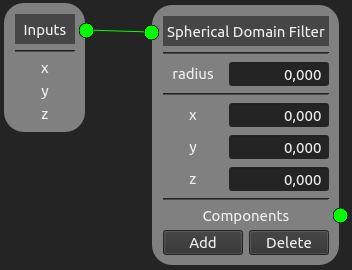
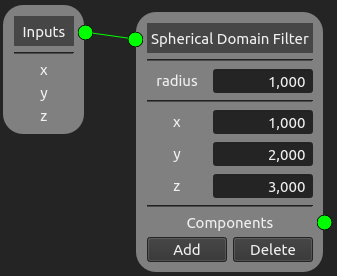
filters documentation done

diff --git a/docs/source/filters.rst b/docs/source/filters.rst
@@ -9,7 +9,7 @@ Note that easi-gui does not check for typos or wrong inputs.
 Any Node
 --------
 
-This node implements `Any <https://easyinit.readthedocs.io/en/latest/filters.html#any>`_ of easi.
+This node implements `Any <https://easyinit.readthedocs.io/en/latest/filters.html#any>`_ of easi. It mostly serves as a root node and accepts every point and every group.
 
 .. image:: fig/filters/any.png
   :alt: Any
@@ -17,33 +17,49 @@ This node implements `Any <https://easyinit.readthedocs.io/en/latest/filters.htm
 Axis Aligned Cuboidal Domain Filter Node
 ----------------------------------------
 
-This node implements `AxisAlignedCuboidalDomainFilter <https://easyinit.readthedocs.io/en/latest/filters.html#axisalignedcuboidaldomainfilter>`_ of easi.
+This node implements `AxisAlignedCuboidalDomainFilter <https://easyinit.readthedocs.io/en/latest/filters.html#axisalignedcuboidaldomainfilter>`_ of easi. It accepts only points inside an axis-aligned bounding box (see easi documentation).
 
-.. image:: fig/filters/axisalignedcuboidaldomainfilter.png
+.. figure:: fig/filters/axisalignedcuboidaldomainfilter.png
   :alt: AxisAlignedCuboidalDomainFilter
+  
+  This Axis Aligned Cuboidal Domain Filter node takes all points that satisfy the conditions: :math:`-1 \leq x \leq 1`, :math:`0 \leq y \leq 2` and :math:`1 \leq z \leq 3`.
+
+When an input is given, the dimensions' names are automatically added to the Axis Aligned Cuboidal Domain Filter node. You then only need to give the lower and upper limits next to the labels of the same row.
 
 Spherical Domain Filter Node
 ----------------------------
 
-This node implements `SphericalDomainFilter <https://easyinit.readthedocs.io/en/latest/filters.html#sphericaldomainfilter>`_ of easi.
+This node implements `SphericalDomainFilter <https://easyinit.readthedocs.io/en/latest/filters.html#sphericaldomainfilter>`_ of easi. It accepts only points inside a sphere.
 
-.. image:: fig/filters/sphericaldomainfilter.png
+.. figure:: fig/filters/sphericaldomainfilter.png
   :alt: SphericalDomainFilter
-
+  
+  This Spherical Domain Filter node takes all nodes :math:`m` that satisfy :math:`||m - (1,2,3)^T|| \leq 1`.
+  
+The radius can be given in the spin box next to "radius". When an input is given, the dimensions' names are automatically added to the Spherical Domain Filter node. The value of the center corresponding to the dimension needs to be added in the spin box of the same row.
+  
 Group Filter Node
 -----------------
 
-This node implements `GroupFilter <https://easyinit.readthedocs.io/en/latest/filters.html#groupfilter>`_ of easi.
+This node implements `GroupFilter <https://easyinit.readthedocs.io/en/latest/filters.html#groupfilter>`_ of easi. It accepts only points belonging to a set of groups.
 
-.. image:: fig/filters/groupfilter.png
+.. figure:: fig/filters/groupfilter.png
   :alt: GroupFilter
+  
+  This Group Filter node accepts the nodes that belong to the groups 1, 2 and 3.
+
+The group values need to be written in the spin boxes of the Group Filter node.
+  
+The + button adds new group rows to the map, while the - button removes the group of the button's row.
 
 Switch Node
 -----------
 
-This node implements `Switch <https://easyinit.readthedocs.io/en/latest/filters.html#switch>`_ of easi.
+This node implements `Switch <https://easyinit.readthedocs.io/en/latest/filters.html#switch>`_ of easi. It can be used to use select a component based on the requested parameters.
 
-.. image:: fig/filters/switch.png
+.. figure:: fig/filters/switch.png
   :alt: Switch
-
-
+  
+  This Switch node separates the output parameters lambda, mu and rho, according to how they are computed. lambda and mu are determined using a Constant Map node and have respectively the values 1 and 2, while rho is defined via an affine map and has the value :math:`x-y+1`.
+  
+A Switch node always has at least one Switch Component node, in which the parameters need to be manually added. The + button adds new parameter rows to the map, while the - button removes the parameter of the button's row. Switch Component nodes can be further added by clicking on the "Add" button of the Switch node, while the "Delete" button removes the last Switch Component.
